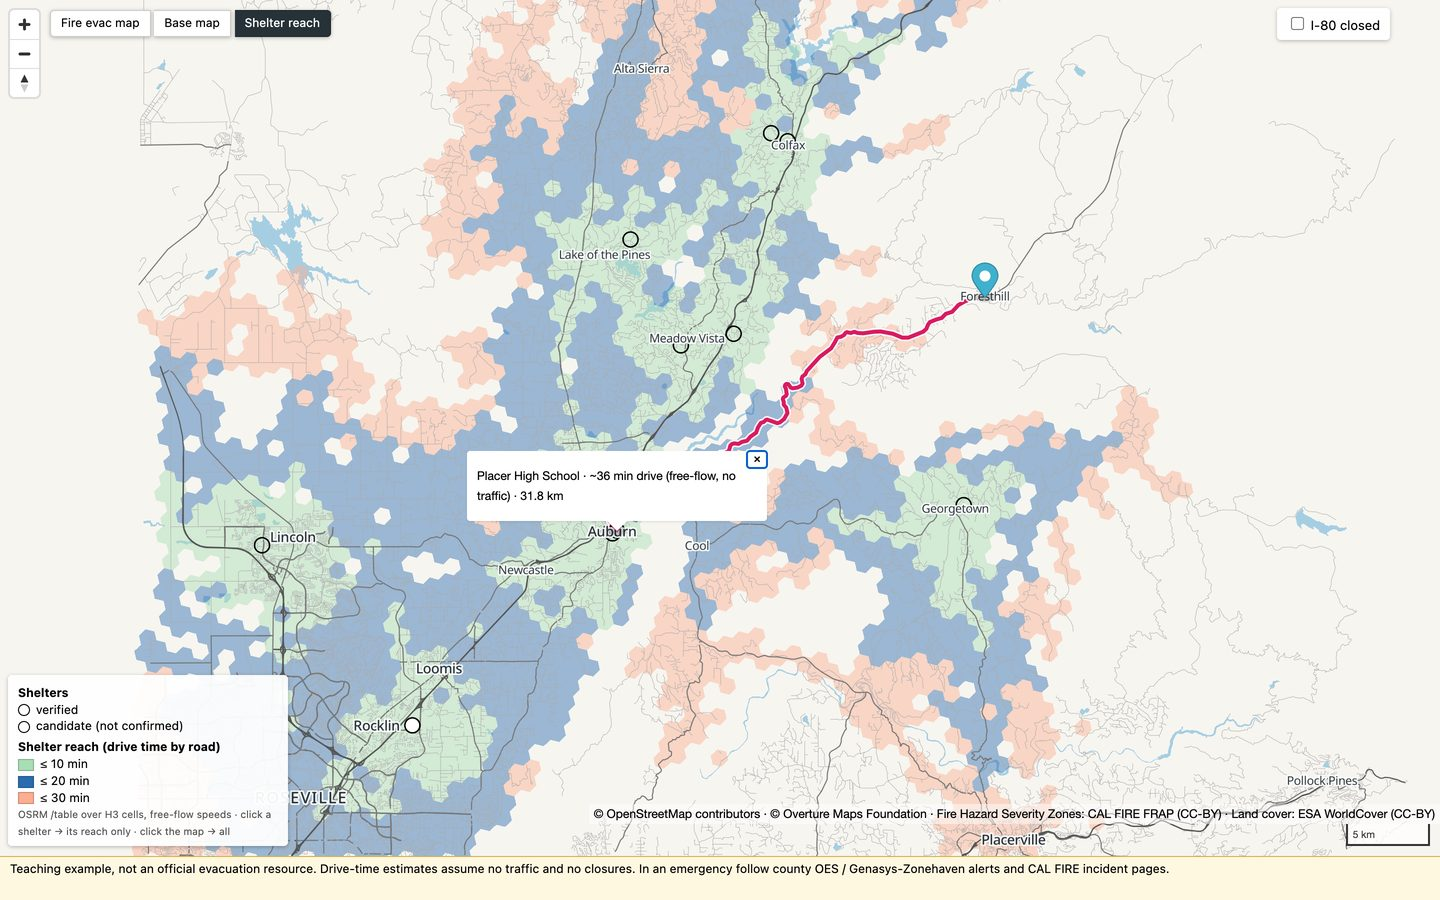
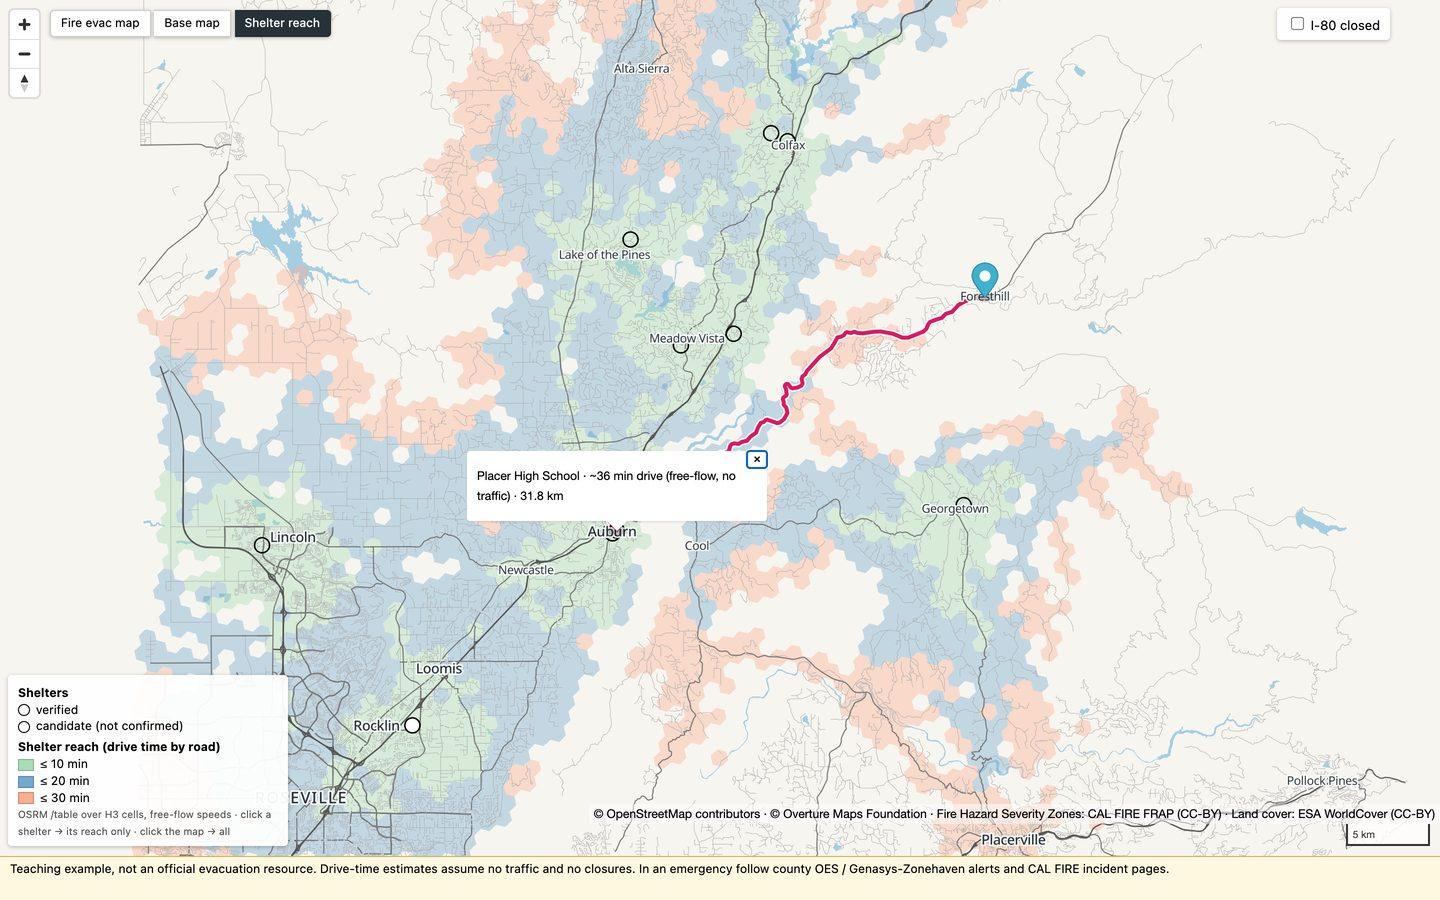
Shelter reach: lighter blue (#74a9cf) at 40 % so roads and water show through the 10–20 min ring

diff --git a/02-web/index.html b/02-web/index.html
@@ -57,7 +57,7 @@
   <div id="legend-reach" style="display:none">
     <b>Shelter reach (drive time by road)</b>
     <div><i style="background:#a8ddb5"></i>≤ 10 min</div>
-    <div><i style="background:#2b6cb0"></i>≤ 20 min</div>
+    <div><i style="background:#74a9cf"></i>≤ 20 min</div>
     <div><i style="background:#fcae91"></i>≤ 30 min</div>
     <small>OSRM /table over H3 cells, free-flow speeds · click a shelter → its reach only · click the map → all</small>
   </div>
@@ -205,7 +205,7 @@ window.setView = setView;   // console / automation: setView('reach')
 // Shelter reach data: precomputed drive-time isochrones — for every shelter, the area it can be reached from within
 // 10 / 20 / 30 minutes by road (OSRM /table from H3 cell centroids, free-flow speeds, no closures).
 // Built by scripts/make-coverage.py -> data/coverage/coverage_bands.geojson (Lab 3 stretch A shows the recipe).
-const REACH_COLORS = ['match', ['get', 'band'], 10, '#a8ddb5', 20, '#2b6cb0', 30, '#fcae91', '#fcae91'];
+const REACH_COLORS = ['match', ['get', 'band'], 10, '#a8ddb5', 20, '#74a9cf', 30, '#fcae91', '#fcae91'];
 const reachStatus = document.getElementById('reach-status');
 let reachShelter = null;          // null = all shelters, otherwise one shelter id
 let reachData = null;             // the loaded GeoJSON (for shelter names in the status line)
@@ -229,7 +229,7 @@ async function ensureReachLayer() {
   map.addLayer({
     id: 'coverage-bands', type: 'fill', source: 'coverage',
     layout: { visibility: 'none', 'fill-sort-key': ['-', ['get', 'band']] },   // 30-min drawn first, 10-min on top
-    paint: { 'fill-color': REACH_COLORS, 'fill-opacity': 0.45, 'fill-outline-color': '#ffffff00' }   // rings never overlap (make-coverage.py), so they can be translucent without blending
+    paint: { 'fill-color': REACH_COLORS, 'fill-opacity': 0.4, 'fill-outline-color': '#ffffff00' }   // rings never overlap (make-coverage.py), so they can be translucent without blending
   }, before);
   return true;
 }

diff --git a/02-web/solution.html b/02-web/solution.html
@@ -59,7 +59,7 @@
   <div id="legend-reach" style="display:none">
     <b>Shelter reach (drive time by road)</b>
     <div><i style="background:#a8ddb5"></i>≤ 10 min</div>
-    <div><i style="background:#2b6cb0"></i>≤ 20 min</div>
+    <div><i style="background:#74a9cf"></i>≤ 20 min</div>
     <div><i style="background:#fcae91"></i>≤ 30 min</div>
     <small>OSRM /table over H3 cells, free-flow speeds · click a shelter → its reach only · click the map → all</small>
   </div>
@@ -522,7 +522,7 @@ window.setView = setView;   // console / automation: setView('reach')
 // Shelter reach data: precomputed drive-time isochrones — for every shelter, the area it can be reached from within
 // 10 / 20 / 30 minutes by road (OSRM /table from H3 cell centroids, free-flow speeds, no closures).
 // Built by scripts/make-coverage.py -> data/coverage/coverage_bands.geojson (Lab 3 stretch A shows the recipe).
-const REACH_COLORS = ['match', ['get', 'band'], 10, '#a8ddb5', 20, '#2b6cb0', 30, '#fcae91', '#fcae91'];
+const REACH_COLORS = ['match', ['get', 'band'], 10, '#a8ddb5', 20, '#74a9cf', 30, '#fcae91', '#fcae91'];
 const reachStatus = document.getElementById('reach-status');
 let reachShelter = null;          // null = all shelters, otherwise one shelter id
 let reachData = null;             // the loaded GeoJSON (for shelter names in the status line)
@@ -546,7 +546,7 @@ async function ensureReachLayer() {
   map.addLayer({
     id: 'coverage-bands', type: 'fill', source: 'coverage',
     layout: { visibility: 'none', 'fill-sort-key': ['-', ['get', 'band']] },   // 30-min drawn first, 10-min on top
-    paint: { 'fill-color': REACH_COLORS, 'fill-opacity': 0.45, 'fill-outline-color': '#ffffff00' }   // rings never overlap (make-coverage.py), so they can be translucent without blending
+    paint: { 'fill-color': REACH_COLORS, 'fill-opacity': 0.4, 'fill-outline-color': '#ffffff00' }   // rings never overlap (make-coverage.py), so they can be translucent without blending
   }, before);
   return true;
 }

diff --git a/demo/app.js b/demo/app.js
@@ -191,7 +191,7 @@ import * as maplibregl from 'https://unpkg.com/maplibre-gl@6.14.0/dist/maplibre-
       L.append(legendRow(el('span', { className: 'sw', style: 'border:0;border-top:2px dashed #4d4d4d;height:0;margin:5px 0' }), 'Past fire perimeter (River 2021, Mosquito 2022)'));
     } else if (state.view === 'reach') {
       L.append(el('div', { className: 'src', textContent: 'Drive time to reach a shelter (free-flow, no traffic)' }));
-      [['#a8ddb5', '≤ 10 min'], ['#2b6cb0', '≤ 20 min'], ['#fcae91', '≤ 30 min']].forEach(([c, t]) => L.append(legendRow(sw(c), t)));
+      [['#a8ddb5', '≤ 10 min'], ['#74a9cf', '≤ 20 min'], ['#fcae91', '≤ 30 min']].forEach(([c, t]) => L.append(legendRow(sw(c), t)));
     }
     L.append(legendRow(dot('#fff'), 'Shelter — verified'));
     L.append(legendRow(dot('transparent'), 'Shelter — candidate (not confirmed)'));
